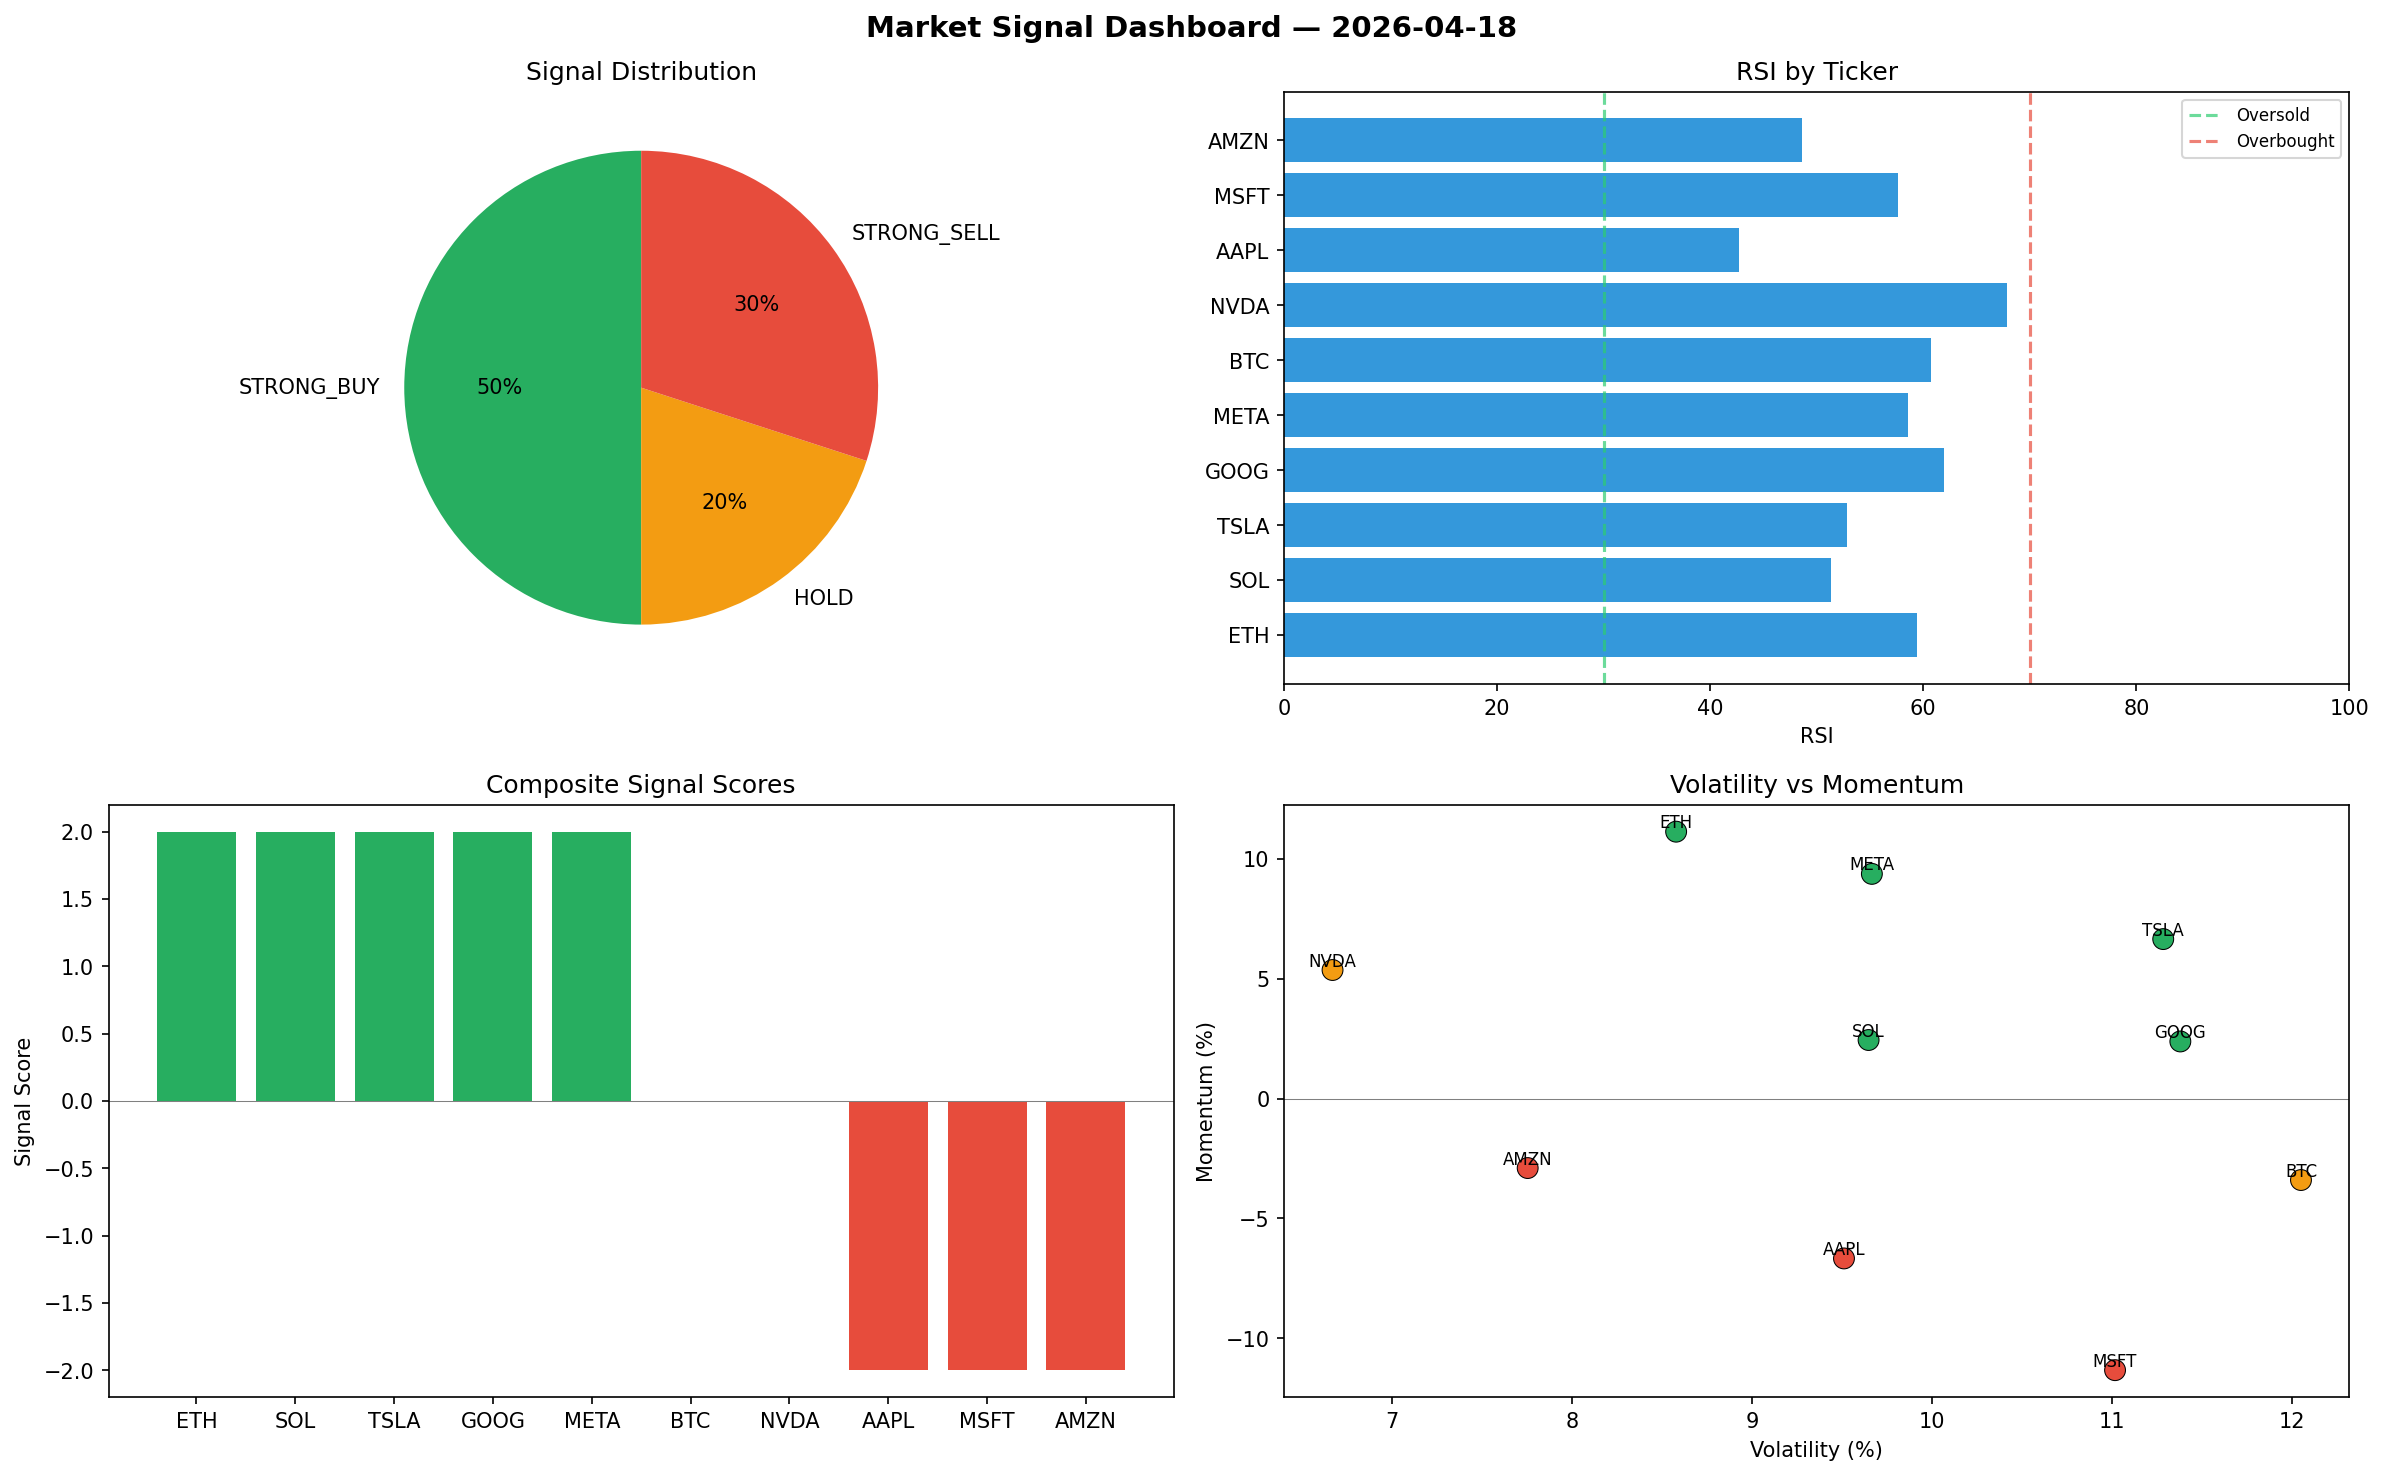
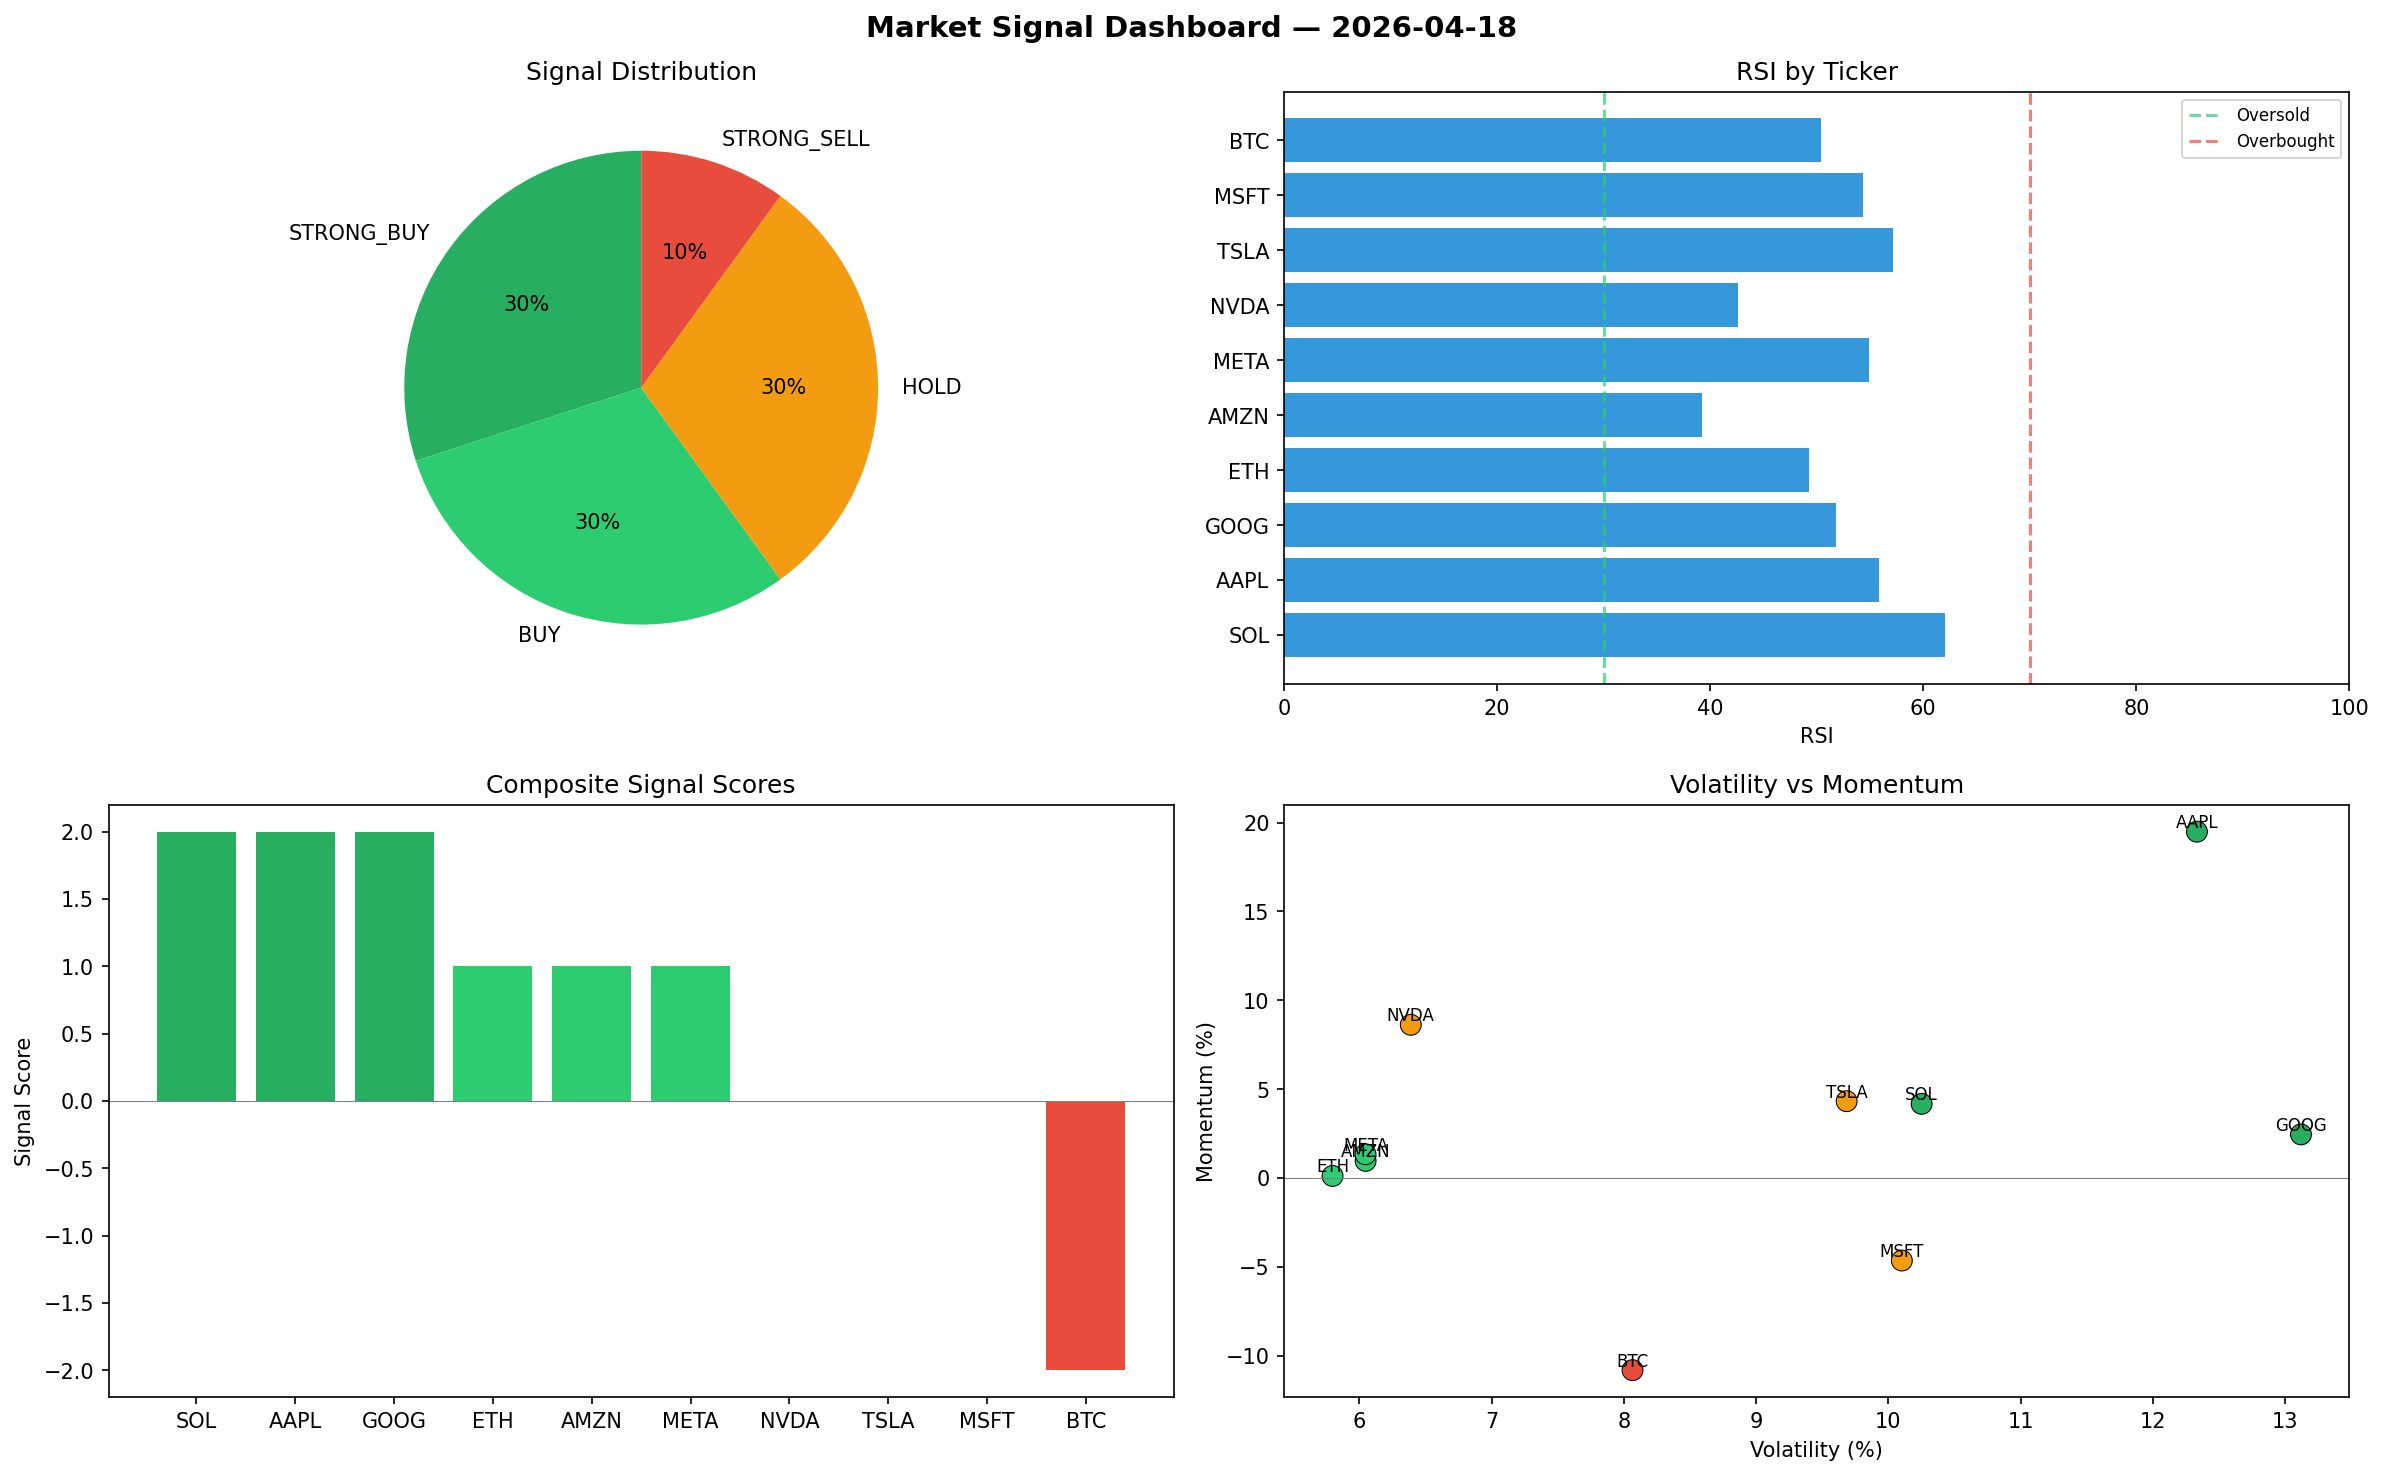
automated-bots: market signals 2026-04-18T15:06

diff --git a/logs/2026-04-18.md b/logs/2026-04-18.md
@@ -1,6 +1,6 @@
 # Market Signal Report — 2026-04-18
 
-**Run ID:** `141d66a80b` | **Buy:** 5 | **Sell:** 3 | **Hold:** 2
+**Run ID:** `c9c80966e4` | **Buy:** 6 | **Sell:** 1 | **Hold:** 3
 
 ![Dashboard](2026-04-18_dashboard.png)
 
@@ -8,28 +8,28 @@
 
 | Ticker | Price | Signal | Score | RSI | Momentum | Confidence |
 |--------|-------|--------|-------|-----|----------|------------|
-| ETH | $5266.22 | **STRONG_BUY** | 2 | 59.4 | 0.1113 | 0.5 |
-| SOL | $4528.21 | **STRONG_BUY** | 2 | 51.38 | 0.0244 | 0.5 |
-| TSLA | $4775.31 | **STRONG_BUY** | 2 | 52.88 | 0.0665 | 0.5 |
-| GOOG | $124.9 | **STRONG_BUY** | 2 | 61.92 | 0.0238 | 0.5 |
-| META | $1879.08 | **STRONG_BUY** | 2 | 58.6 | 0.0937 | 0.5 |
-| BTC | $3280.56 | **HOLD** | 0 | 60.74 | -0.034 | 0.0 |
-| NVDA | $3763.02 | **HOLD** | 0 | 67.85 | 0.0536 | 0.0 |
-| AAPL | $514.97 | **STRONG_SELL** | -2 | 42.71 | -0.0667 | 0.5 |
-| MSFT | $205.13 | **STRONG_SELL** | -2 | 57.67 | -0.1133 | 0.5 |
-| AMZN | $2577.27 | **STRONG_SELL** | -2 | 48.57 | -0.029 | 0.5 |
+| SOL | $1767.85 | **STRONG_BUY** | 2 | 62.05 | 0.0417 | 0.5 |
+| AAPL | $1613.18 | **STRONG_BUY** | 2 | 55.81 | 0.1949 | 0.5 |
+| GOOG | $3804.81 | **STRONG_BUY** | 2 | 51.82 | 0.0245 | 0.5 |
+| ETH | $3033.33 | **BUY** | 1 | 49.29 | 0.0011 | 0.25 |
+| AMZN | $50.62 | **BUY** | 1 | 39.24 | 0.0096 | 0.25 |
+| META | $3220.51 | **BUY** | 1 | 54.94 | 0.0133 | 0.25 |
+| NVDA | $1355.92 | **HOLD** | 0 | 42.65 | 0.0862 | 0.0 |
+| TSLA | $1430.01 | **HOLD** | 0 | 57.11 | 0.0432 | 0.0 |
+| MSFT | $569.59 | **HOLD** | 0 | 54.32 | -0.0465 | 0.0 |
+| BTC | $1260.83 | **STRONG_SELL** | -2 | 50.41 | -0.1082 | 0.5 |
 
 ## Delta vs Yesterday
 
 | Ticker | Today | Yesterday | Price Change | Signal Changed |
 |--------|-------|-----------|-------------|----------------|
-| ETH | STRONG_BUY | HOLD | 📈 404.62% | ⚠ YES |
-| SOL | STRONG_BUY | STRONG_BUY | 📈 151.77% | — |
-| TSLA | STRONG_BUY | SELL | 📈 90.95% | ⚠ YES |
-| GOOG | STRONG_BUY | BUY | 📉 -96.55% | ⚠ YES |
-| META | STRONG_BUY | STRONG_BUY | 📉 -56.44% | — |
-| BTC | HOLD | STRONG_BUY | 📈 407.07% | ⚠ YES |
-| NVDA | HOLD | STRONG_SELL | 📈 658.29% | ⚠ YES |
-| AAPL | STRONG_SELL | STRONG_BUY | 📉 -86.54% | ⚠ YES |
-| MSFT | STRONG_SELL | HOLD | 📉 -90.88% | ⚠ YES |
-| AMZN | STRONG_SELL | STRONG_SELL | 📉 -13.79% | — |
+| SOL | STRONG_BUY | STRONG_BUY | 📉 -1.71% | — |
+| AAPL | STRONG_BUY | STRONG_BUY | 📉 -57.82% | — |
+| GOOG | STRONG_BUY | BUY | 📈 5.12% | ⚠ YES |
+| ETH | BUY | HOLD | 📈 190.66% | ⚠ YES |
+| AMZN | BUY | STRONG_SELL | 📉 -98.31% | ⚠ YES |
+| META | BUY | STRONG_BUY | 📉 -25.35% | ⚠ YES |
+| NVDA | HOLD | STRONG_SELL | 📈 173.23% | ⚠ YES |
+| TSLA | HOLD | SELL | 📉 -42.82% | ⚠ YES |
+| MSFT | HOLD | HOLD | 📉 -74.68% | — |
+| BTC | STRONG_SELL | STRONG_BUY | 📈 94.88% | ⚠ YES |
